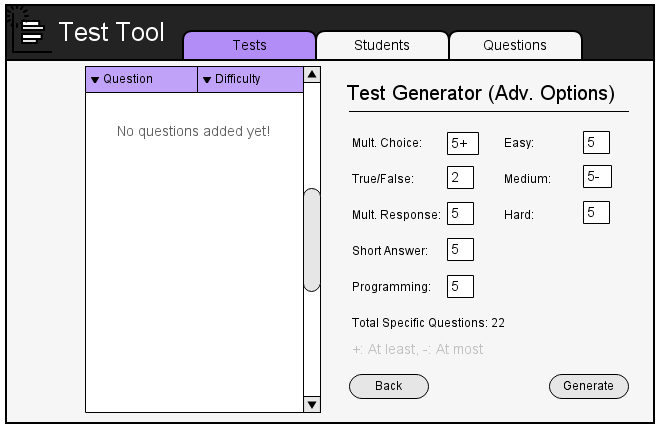
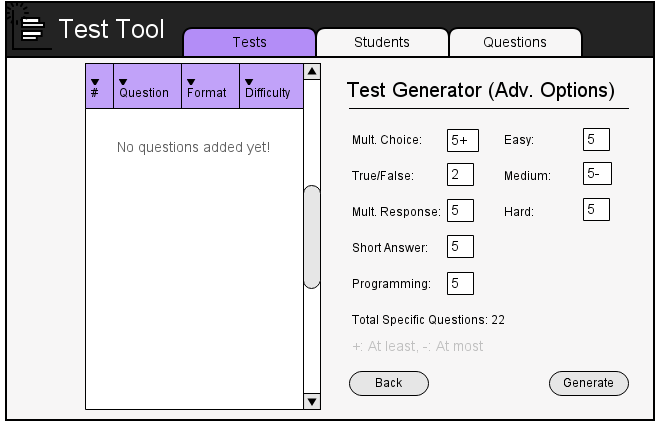
some images
git-svn-id: svn+ssh://unix3.csc.calpoly.edu/home/crhoads/projects/SVN/testtool/trunk@149 963ccdc2-257a-457c-a1c1-497300e6edd4

diff --git a/requirements/test-directory.html b/requirements/test-directory.html
@@ -27,12 +27,16 @@ A user can manage tests through the Test Directory menu.
 
 <a name="Creating a Test">
 <h4>
-2.6.1.  Creating a Test
+2.6.1.  Creating and Generating a Test
 </h4>
 </a>
 <p>
-In the Test Directory, the instructor presses the large <tt>+</tt> button to show
- the New Test menu.
+In the Test Directory, the instructor presses the large <tt>+</tt> button to
+ show the New Test menu.
+<p>
+(Alternatively, if the instructor wishes to create a copy of an existing test,
+ the instructor may select one or multiple tests from the directory, and then
+ click <tt>Copy</tt> to create copies of the selected tests.)
 
 <br>
 <br>
@@ -57,17 +61,93 @@ After setting the new test's properties, the instructor will click
  <tt>Generate</tt> to add the test to the directory, or click <tt>Cancel</tt>
  otherwise.
 <p>
-(Alternatively, if the instructor wishes to create a copy of an existing test,
- the instructor may select one or multiple tests from the directory, and then
- click <tt>Copy</tt> to create copies of the selected tests.)
+The software will move to the Test Generation menu.
+
+<br>
+<br>
+<hr>
+<a name="new test">
+<p align=center>
+<img src="./images/testgen-simple.png">
+</p>
+<p align=center> Figure 1: Test Generation menu.  </p>
+<hr>
+</a>
+<br>
+
+<p>
+The instructor can manipulate several fields:
+<p>
+<tt>Number of Questions</tt>: How many questions are displayed on a student's
+ test.
+<p>
+<tt>Number of Possible Questions</tt>: How many questions total exist for all
+ instances of the test. A student's test takes a certain number of questions
+ from this pool of possible questions. Possible questions cannot be less than
+ number of questions.
+<p>
+<tt>Randomize Questions</tt>: When checked, the test will display its questions
+ in random order.
+<p>
+<tt>Average Difficulty</tt>: If not left to <tt>None</tt>, the test will
+ generate questions so that the average difficulty of questions is as
+ specified.
+<p>
+The instructor accesses more specific test generation options by clicking on
+ <tt>Adv. Options</tt>.
+
+<br>
+<br>
+<hr>
+<a name="properties">
+<p align=center>
+<img src="./images/testgen-adv.png">
+</p>
+<p align=center> Figure ---: Advanced test generation.  </p>
+<hr>
+</a>
+<br>
+
+<p>The software displays various question formats and difficulties. The
+ instructor specifies how many of each type of question they want.
+<p>By adding a '+' to a field, the instructor specifies that the test must
+ generate <em>at least</em> the given number of questions for the given type.
+<p>By adding a '-', the test generates <em>at most</em> that many questions.
+<p>When the instructor leaves a field blank, there is no specification.
+<p>When the instructor finishes setting the generation options, they press
+ <tt>Generate</tt>. Test Tool will populate the scrollbar to the left with
+ questions from the question bank.
+
+<br>
+<br>
+<hr>
+<a name="properties">
+<p align=center>
+<img src="./images/testgen-final-changes.png">
+</p>
+<p align=center> Figure ---: Test questions.  </p>
+<hr>
+</a>
+<br>
+
+<p>The instructor can now make final changes.
+<p>By pressing the large '+' button to the left, they may add new questions, or
+ delete questions by selecting a question from the scrollbar and pressing the
+ trashcan button.
+<p>The instructor changes the order of questions by selecting a question from
+ the scrollbar and pressing the up and down buttons to move them.
+<p>If the instructor desires to restart the test generation, they may press
+ <tt>Re-Generate</tt> to bring them back to the generator menu.
+<p>The instructor returns to the Test Directory by pressing either <tt>Cancel</tt>
+ or <tt>Save</tt>. By pressing the former, any final changes the instructor
+ made are saved.
 
 <a name="Changing Test Properties">
 <h4>
 2.6.2.  Changing Test Properties
 </h4>
 </a>
-<p>
-The instructor may edit a test's properties by going to the Test Directory,
+<p>The instructor may edit a test's properties by going to the Test Directory,
  selecting a single test, then selecting <tt>Properties</tt>.
 
 <br>
